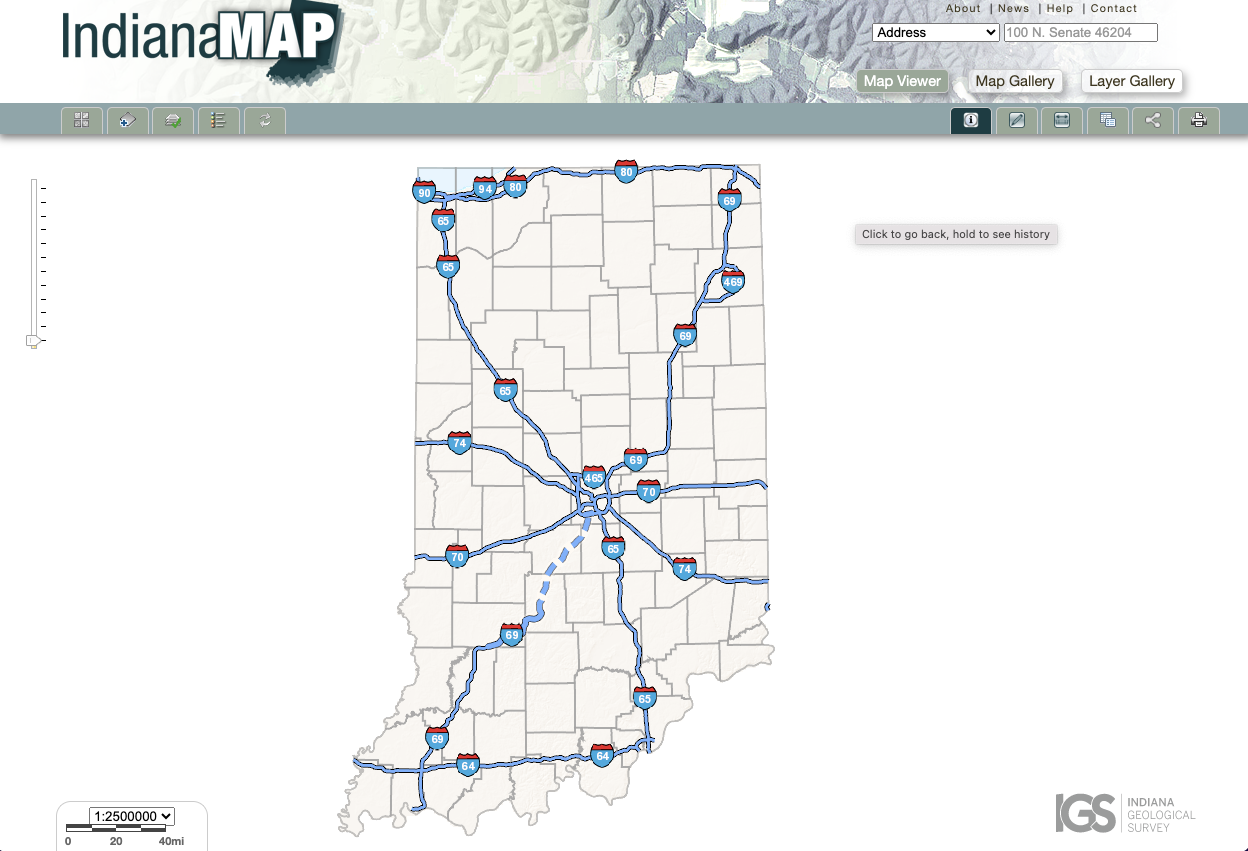
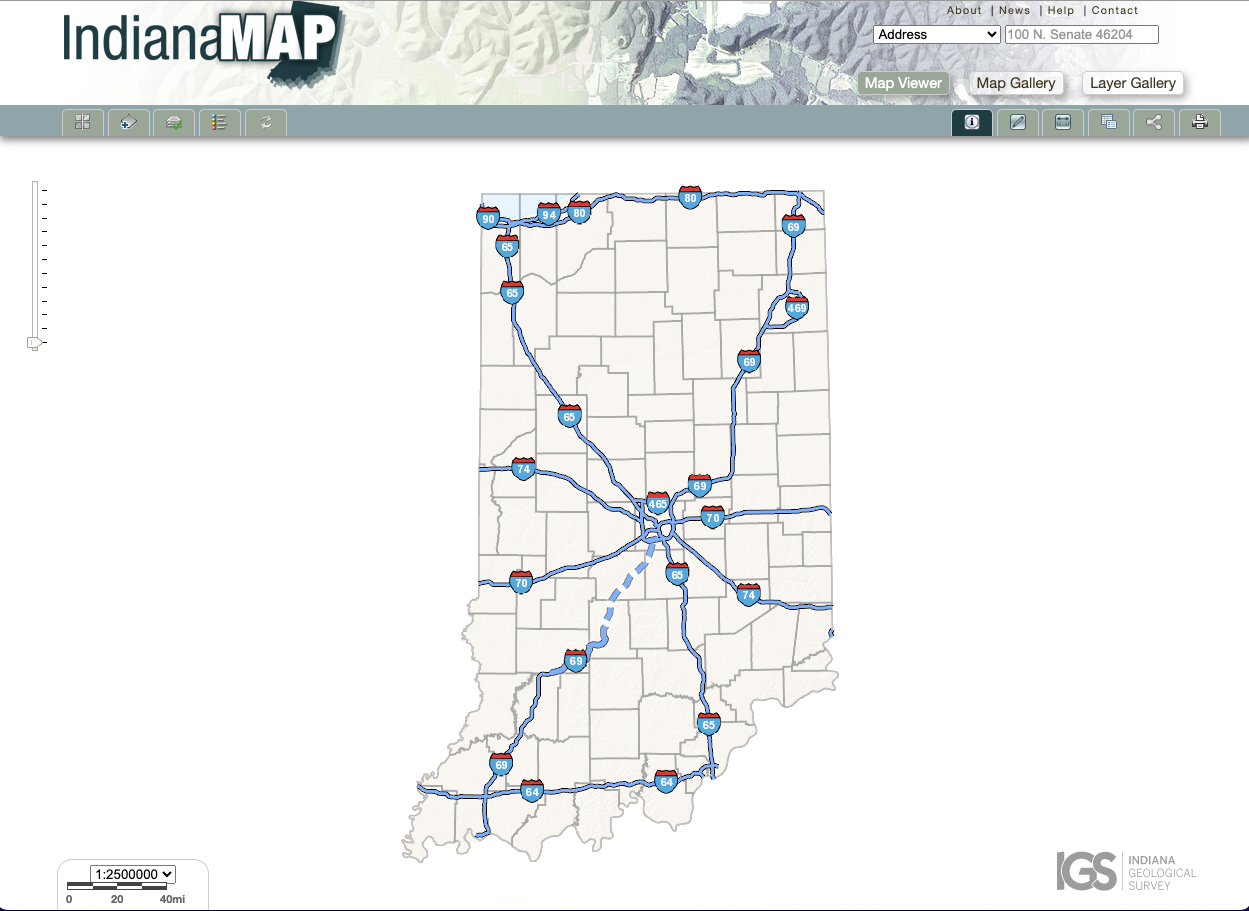
Contain background layer

diff --git a/index.html b/index.html
@@ -5,21 +5,33 @@
   <title>Old Indiana Map</title>
   <style>
     * { box-sizing: border-box; }
-    body {
+    html, body {
       margin: 0;
+      height: 100%;
       font-family: Tahoma, Geneva, sans-serif;
-      height: 100vh;
-      background: #d4d0c8 url('old-map.png') center center / cover no-repeat;
+    }
+    body {
+      background: #d4d0c8;
       display: flex;
       align-items: center;
       justify-content: center;
     }
+    .bg {
+      position: fixed;
+      top: 0; left: 0; right: 0; bottom: 0;
+      background: url('old-map.png') center center / contain no-repeat;
+      opacity: 0.35;
+      z-index: 0;
+    }
     .coming {
+      position: relative;
+      z-index: 1;
       text-align: center;
       background: rgba(255,255,255,0.94);
       border: 1px solid #808080;
       padding: 28px 36px;
       box-shadow: 2px 2px 10px rgba(0,0,0,0.2);
+      max-width: 90%;
     }
     .coming h1 {
       margin: 0 0 8px 0;
@@ -34,9 +46,10 @@
   </style>
 </head>
 <body>
+  <div class="bg"></div>
   <div class="coming">
     <h1>Coming Soon</h1>
-    <p>The classic Indiana map is returning.</p>
+    <p>The old Indiana map is returning.</p>
   </div>
 </body>
 </html>
